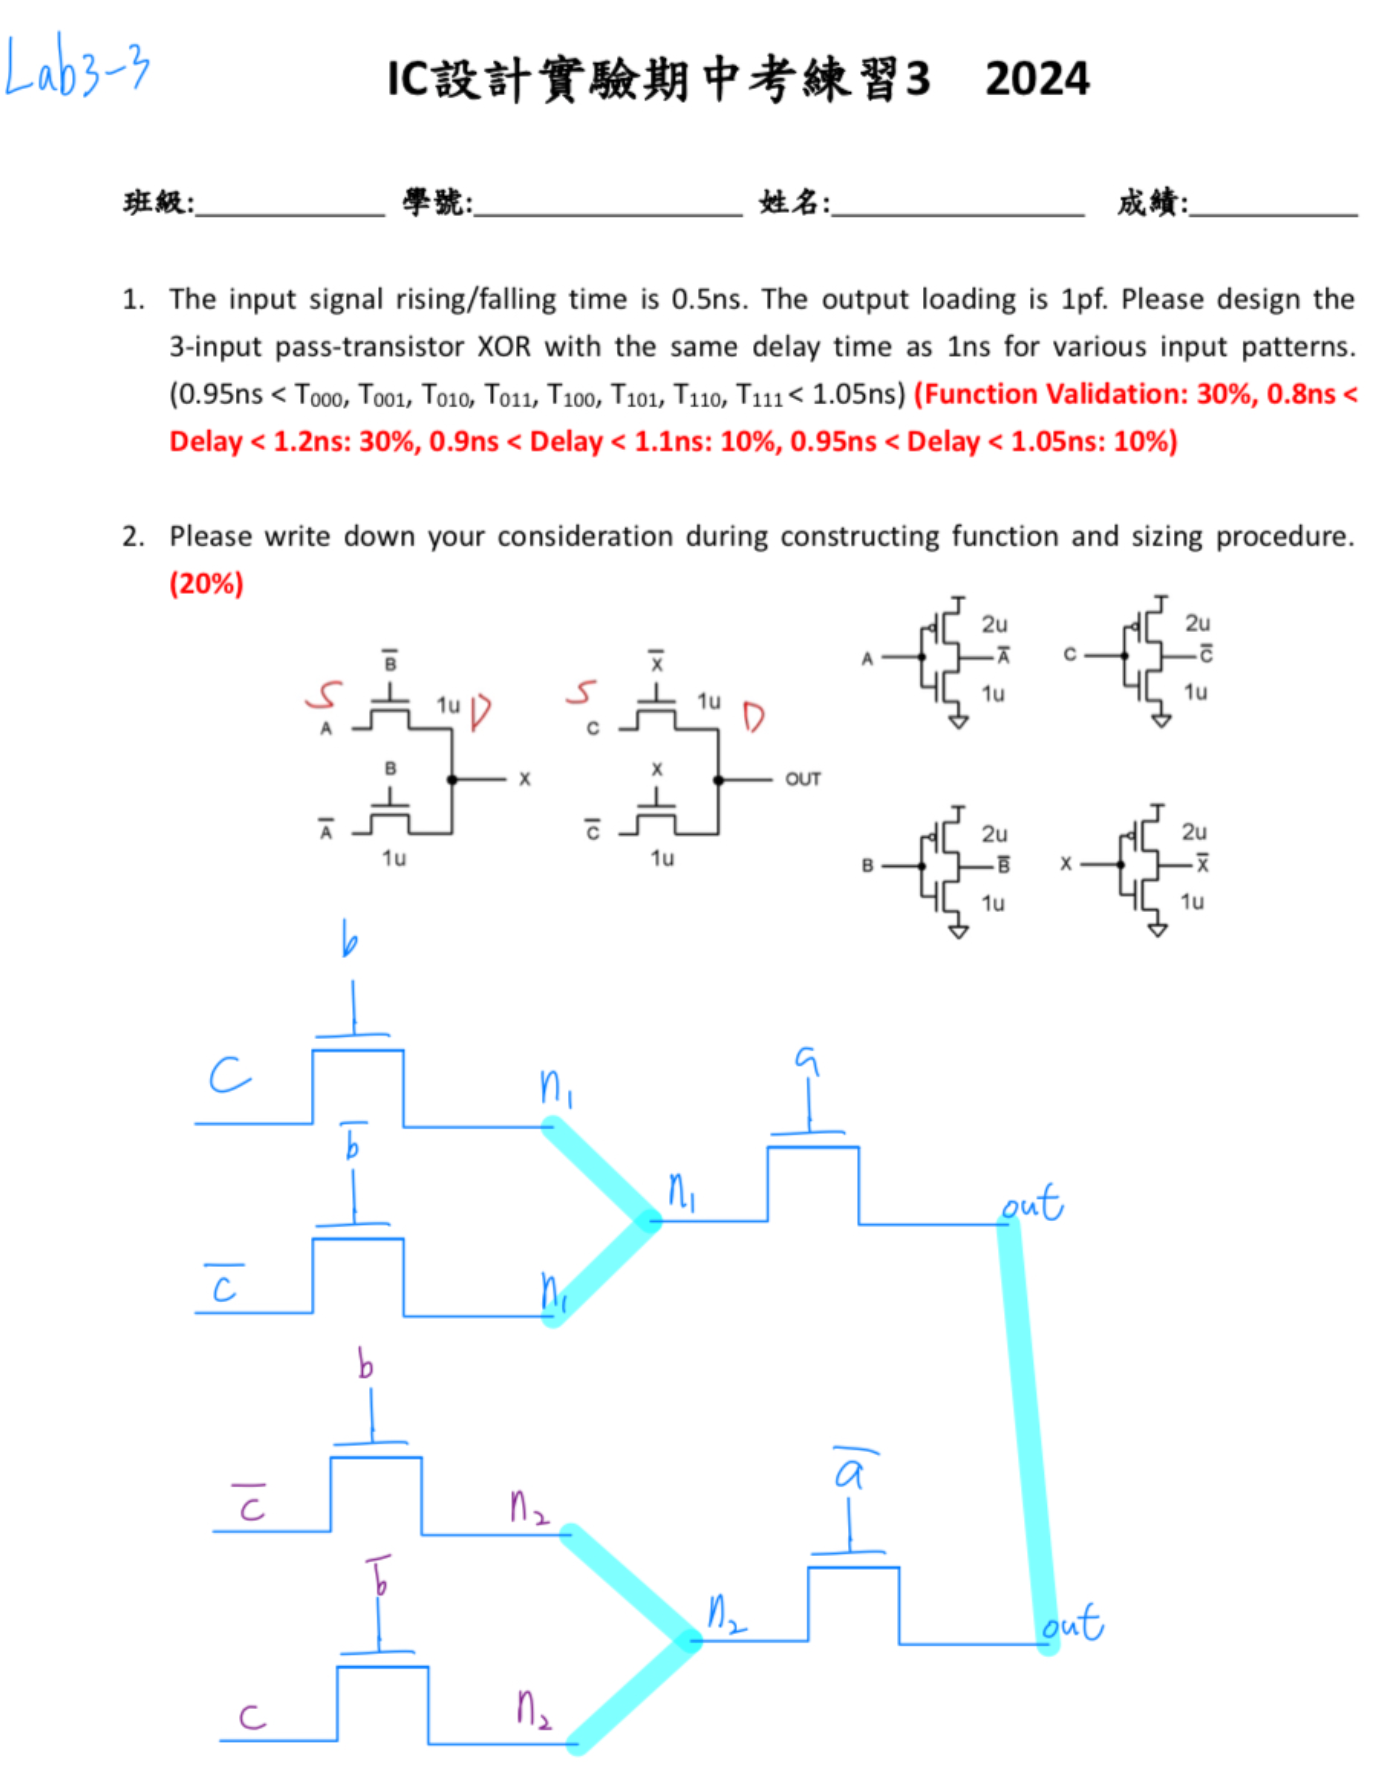
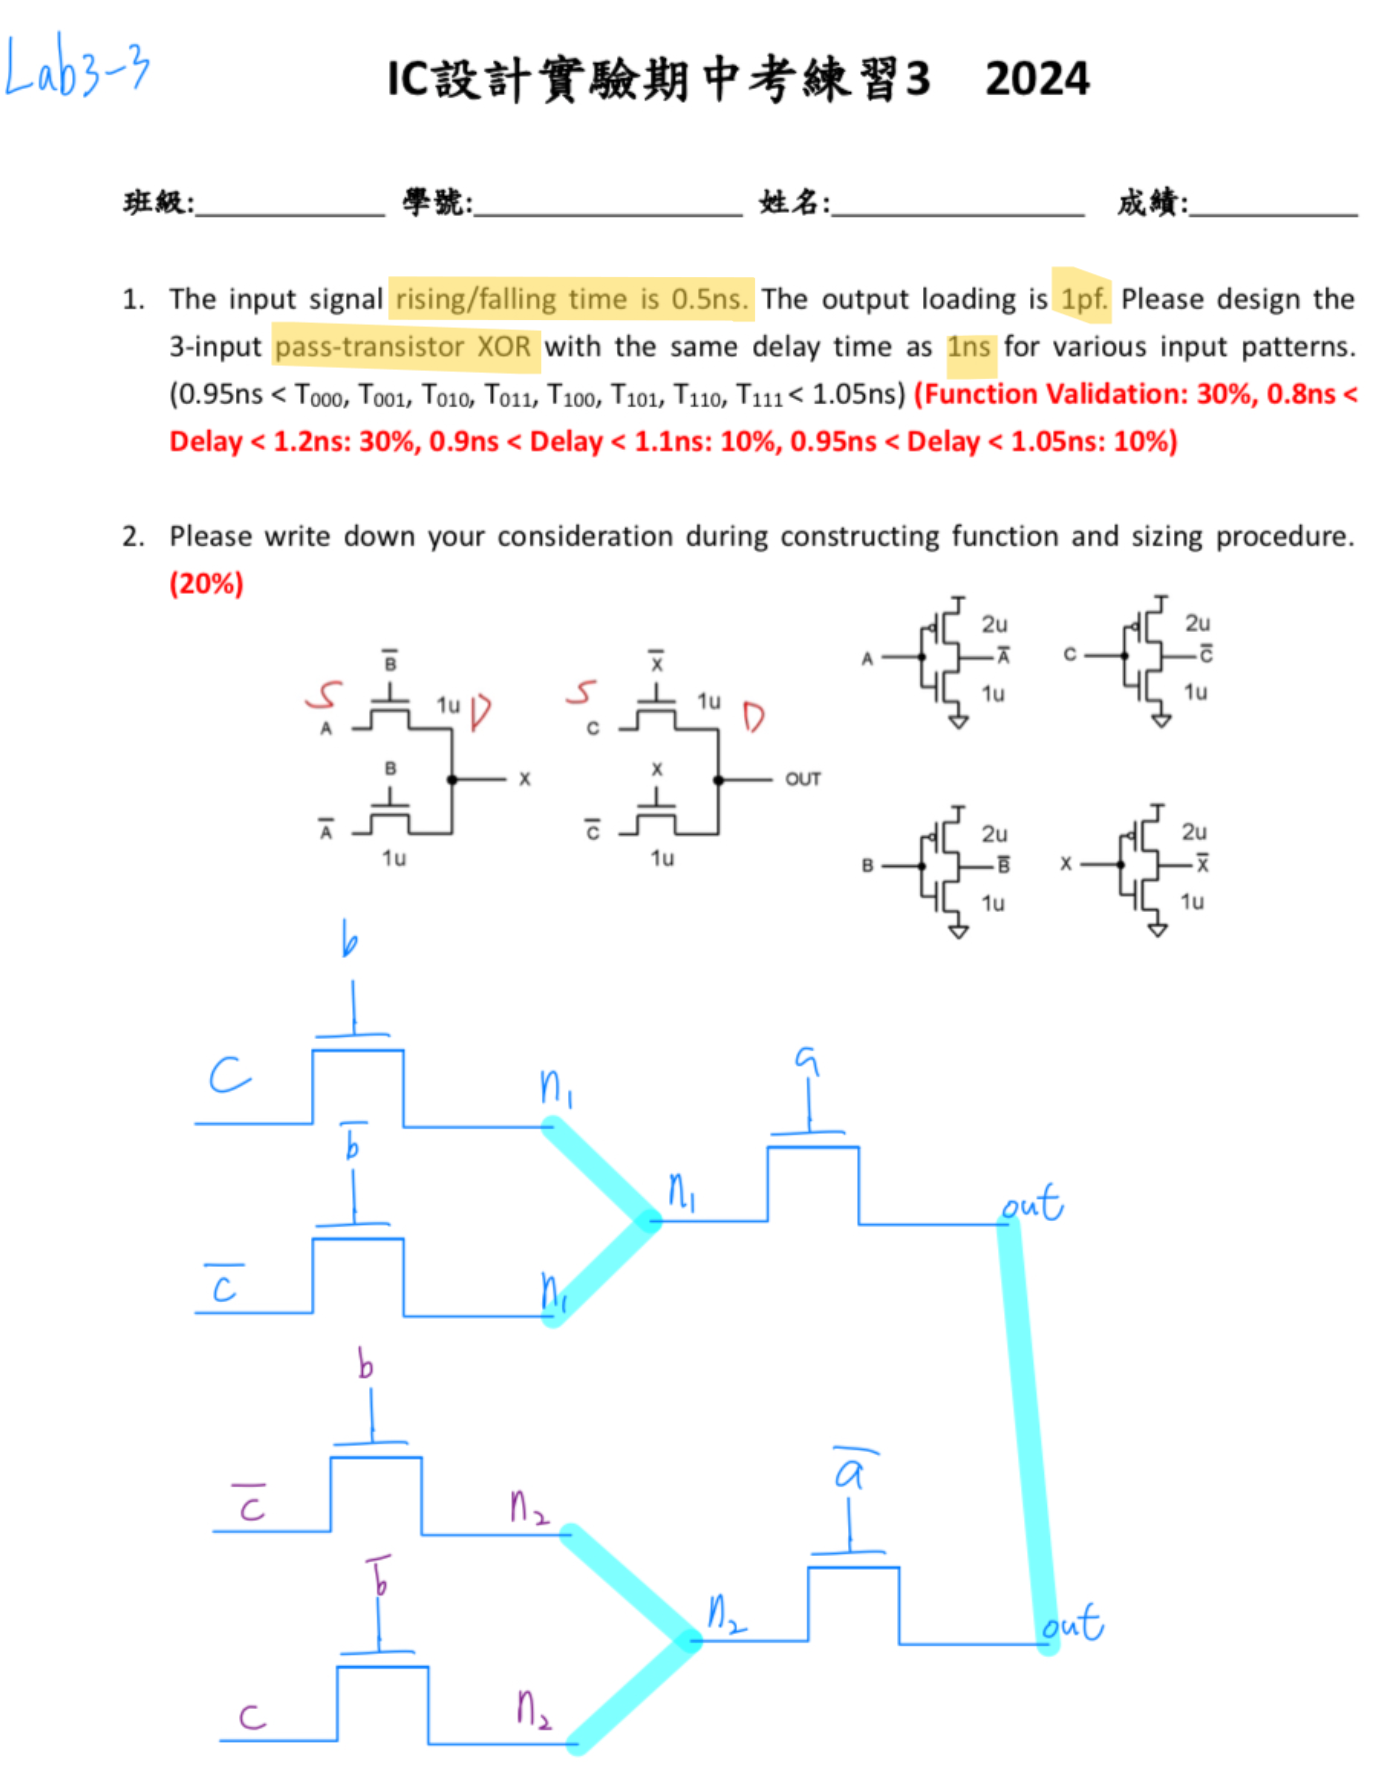
第3題 更新

Changed region(s): [[0.1868, 0.1557, 0.5605, 0.218], [0.7473, 0.1557, 0.8096, 0.1869], [0.685, 0.1869, 0.7473, 0.218]]

diff --git a/MidtermPractice/Practice3/README.md b/MidtermPractice/Practice3/README.md
@@ -1,7 +1,13 @@
 # 112-2-IC-Design-Lab Practice3 
 
 - 可參考Lab3-3 
-- **此題電路架構有做更動**
+- 備註: 
+    - **此題電路架構有做更動** (可以更改為相同功能的電路)
+    - T<sub>000</sub> 為量取下一個週期開始的 a,b,c=000
 - delay time全部符合
 - 題目與節點
     >![alt text](p3_node.png)
+- delay time
+    >![alt text](p3_delay.png)
+- 波型
+    >![alt text](p3_wave.png)
